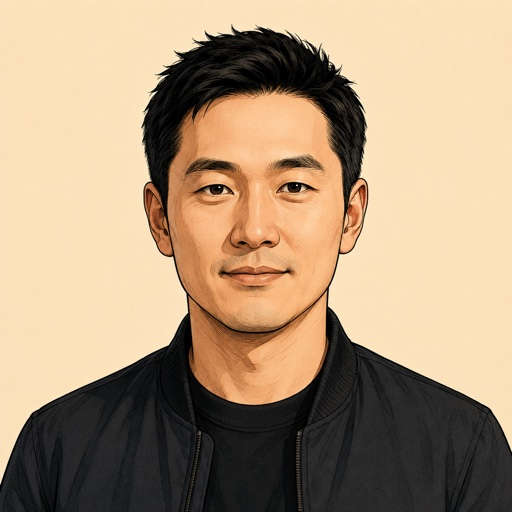
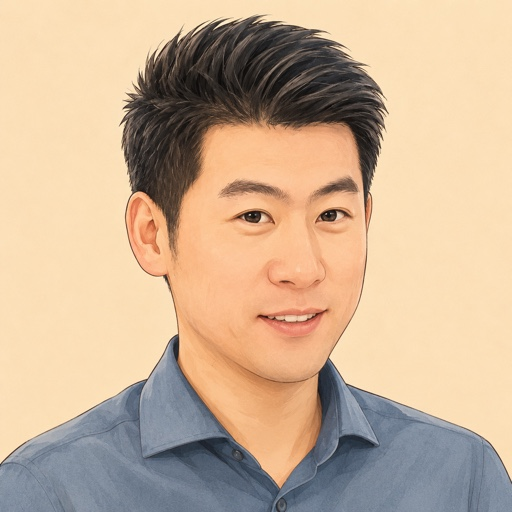
feat(ui): 人物列表多行换行+字母序 + 人物页空状态隐藏 + 3 张头像按本人照重绘
- PersonRail: flex-wrap 多行展示(不横向滚动)+ 按 name_en A-Z 排序
- 人物页:无代表观点时整段隐藏(不再永显"生成中"占位)
- 罗福莉/谢赛宁/高继扬:用本人参考照 gpt-image-2 图生图重绘,相似度大幅提升

diff --git a/app/src/app/[locale]/people/[slug]/page.tsx b/app/src/app/[locale]/people/[slug]/page.tsx
@@ -60,37 +60,38 @@ export default async function PersonPage({
 
       <PersonHero person={person} locale={locale} />
 
-      <hr className="my-12 border-border-default" />
-
-      <section>
-        <h2 className="mb-6 text-2xl font-semibold text-ink-950">
-          {t("person.signature_views")}
-        </h2>
-        <div className="flex max-w-[880px] flex-col gap-6">
-          {views.length === 0 ? (
-            <p className="text-text-muted">{t("person.signature_views_generating")}</p>
-          ) : (
-            views.map((v, i) => (
-              <div key={i} className="border-l-[3px] border-amber-600 pl-6">
-                <p className="font-serif text-2xl italic leading-relaxed text-ink-900">
-                  <span className="text-amber-600">❝ </span>
-                  {v.quote}
-                  <span className="text-amber-600"> ❞</span>
-                </p>
-                <p className="mt-2.5 font-sans text-sm text-text-muted">
-                  {t("person.cite_prefix")}{" "}
-                  <Link
-                    href={`/videos/${v.from_video_slug}`}
-                    className="text-link hover:text-link-hover"
-                  >
-                    {v.from_video_title}
-                  </Link>
-                </p>
-              </div>
-            ))
-          )}
-        </div>
-      </section>
+      {/* 代表观点:有内容才展示;为空时整段隐藏(不显"生成中"占位),
+          页面从简介直接流到相关视频。 */}
+      {views.length > 0 && (
+        <>
+          <hr className="my-12 border-border-default" />
+          <section>
+            <h2 className="mb-6 text-2xl font-semibold text-ink-950">
+              {t("person.signature_views")}
+            </h2>
+            <div className="flex max-w-[880px] flex-col gap-6">
+              {views.map((v, i) => (
+                <div key={i} className="border-l-[3px] border-amber-600 pl-6">
+                  <p className="font-serif text-2xl italic leading-relaxed text-ink-900">
+                    <span className="text-amber-600">❝ </span>
+                    {v.quote}
+                    <span className="text-amber-600"> ❞</span>
+                  </p>
+                  <p className="mt-2.5 font-sans text-sm text-text-muted">
+                    {t("person.cite_prefix")}{" "}
+                    <Link
+                      href={`/videos/${v.from_video_slug}`}
+                      className="text-link hover:text-link-hover"
+                    >
+                      {v.from_video_title}
+                    </Link>
+                  </p>
+                </div>
+              ))}
+            </div>
+          </section>
+        </>
+      )}
 
       <hr className="my-12 border-border-default" />
 

diff --git a/app/src/components/person/person-card.tsx b/app/src/components/person/person-card.tsx
@@ -9,13 +9,15 @@ export function PersonRail({
   people: Array<Pick<PersonDetail, "slug" | "name_zh" | "name_en" | "avatar_url">>;
   locale: Locale;
 }) {
+  // 按字母顺序(英文名)排列;多行换行展示,不横向滚动。
+  const sorted = [...people].sort((a, b) => a.name_en.localeCompare(b.name_en));
   return (
-    <div className="flex gap-8 overflow-x-auto pb-2">
-      {people.map((p) => (
+    <div className="flex flex-wrap gap-x-8 gap-y-7">
+      {sorted.map((p) => (
         <Link
           key={p.slug}
           href={`/people/${p.slug}`}
-          className="flex min-w-[80px] flex-col items-center gap-2"
+          className="flex w-[72px] flex-col items-center gap-2"
         >
           {p.avatar_url ? (
             // eslint-disable-next-line @next/next/no-img-element
@@ -28,7 +30,9 @@ export function PersonRail({
           ) : (
             <div className="h-16 w-16 rounded-full border border-border-default bg-gradient-to-br from-paper-300 to-paper-400" />
           )}
-          <div className="font-sans text-sm text-ink-700">{localized(p, "name", locale)}</div>
+          <div className="text-center font-sans text-sm leading-tight text-ink-700">
+            {localized(p, "name", locale)}
+          </div>
         </Link>
       ))}
     </div>